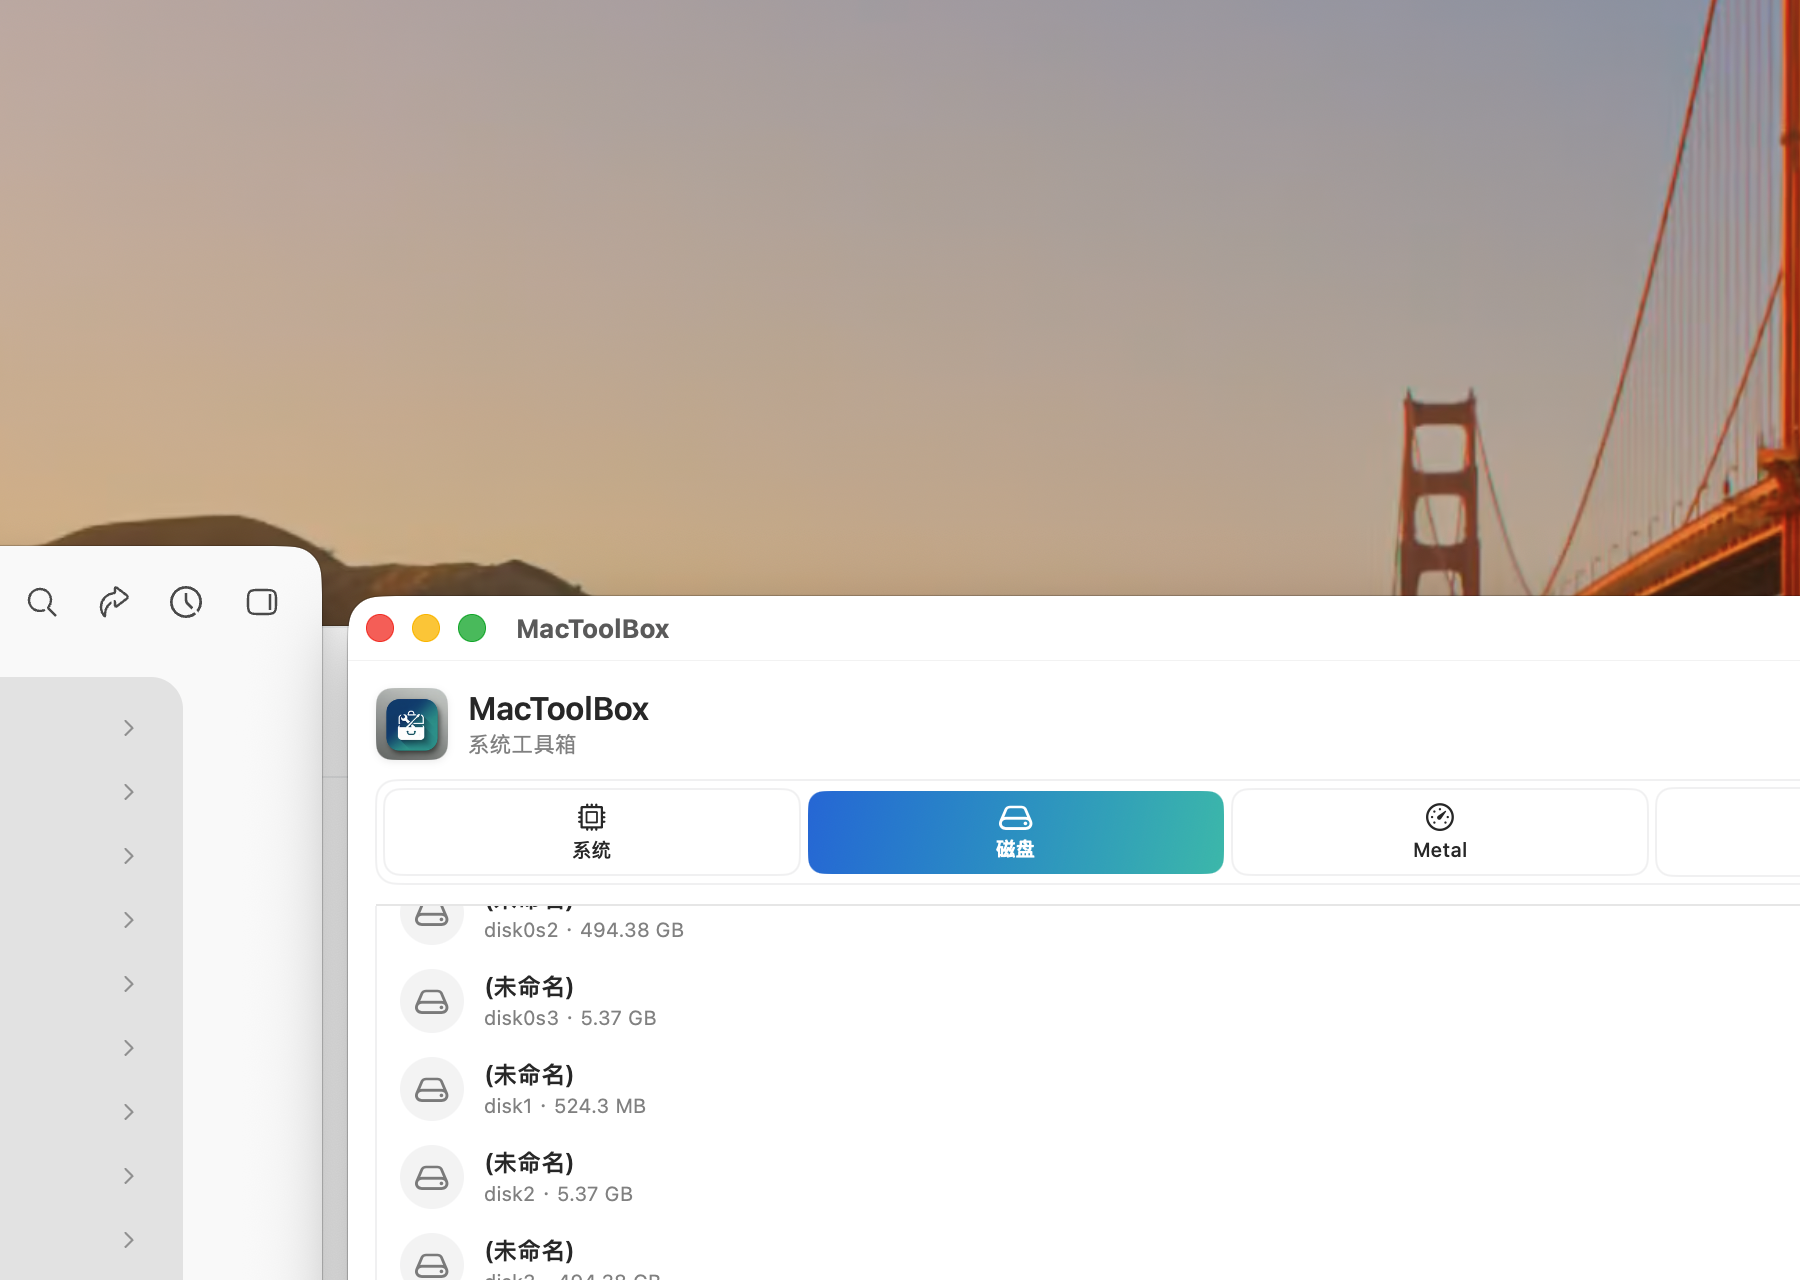
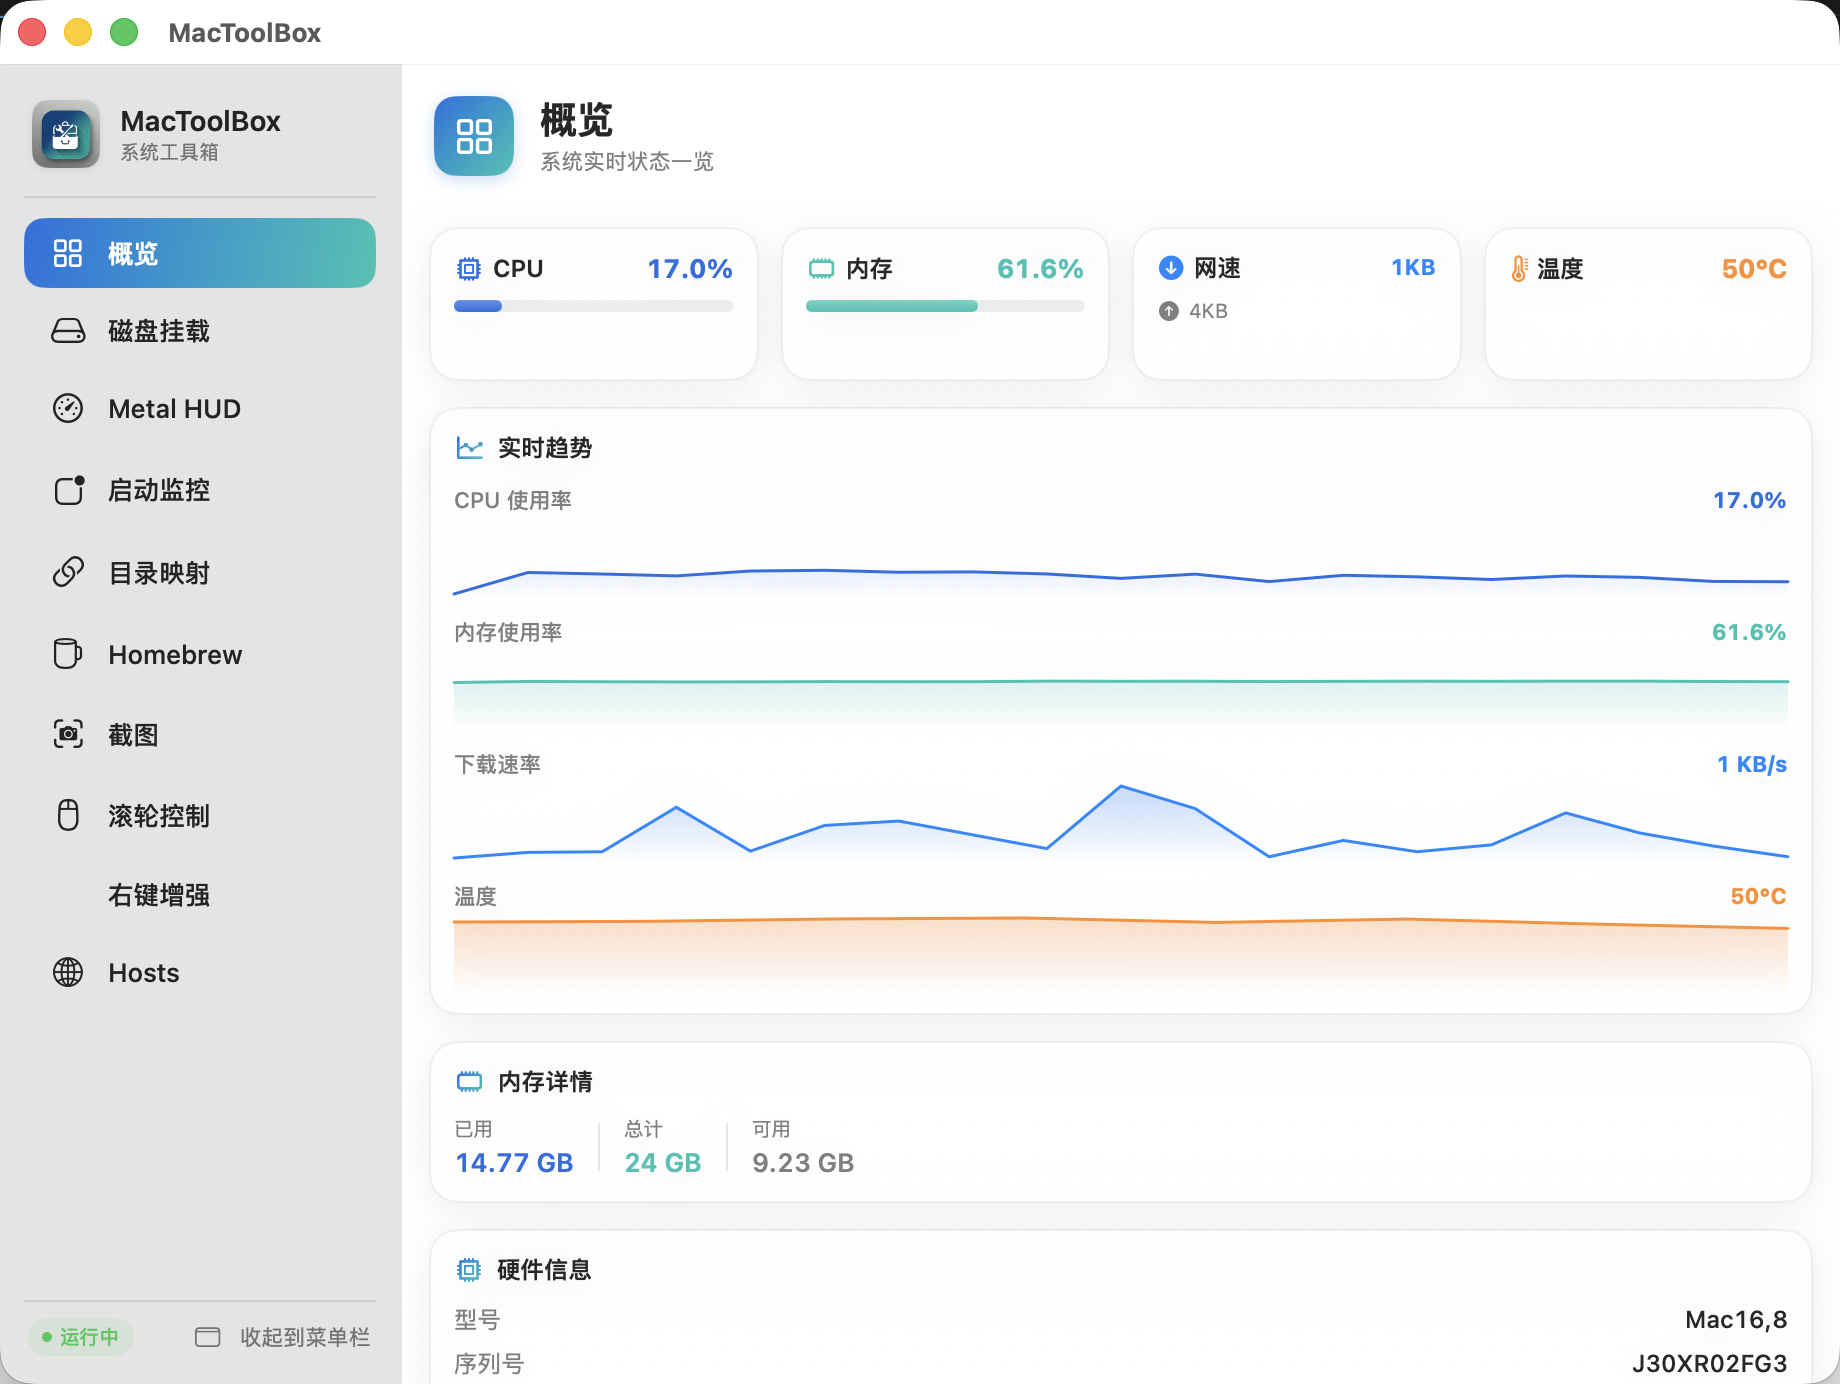
docs(readme): 同步截图就地标注/Hosts 功能/贴图原比例；更新主窗口截图
- 功能表新增 Hosts 行、截图行补就地标注、右键增强图标修正
- 核心能力段与选区工具条段更新；目录树补充 Annotation/Hosts 子模块
- 替换主窗口截图（美化版）

diff --git a/README.md b/README.md
@@ -20,13 +20,14 @@
 | `brew` | Homebrew | `mug` | 开 | 已装/可清理/过期包查询 |
 | `cleanup` | 垃圾清理 | `trash.fill` | 关 | 按 **系统 / 应用 / 上网** 垃圾分组，默认仅选安全项，分批清理（`actor` 隔离） |
 | `launchAgent` | 启动项 | `power` | 关 | LaunchAgent/Daemon plist 解析与管理 |
-| `screenshot` | 截图 | `camera.viewfinder` | 开 | 全屏 / 窗口 / **区域拖选** 截图，存文件 / 剪贴板，或**贴图**悬浮窗（拖动 / 缩放 / 关闭） |
+| `screenshot` | 截图 | `camera.viewfinder` | 开 | 全屏 / 窗口 / **区域拖选** 截图，存文件 / 剪贴板，或**贴图**悬浮窗（拖动 / 缩放 / 关闭）；选区后工具条直接集成**就地标注**（矩形 / 圆形 / 箭头 / 画笔 / 文字 / 马赛克） |
 | `scrollControl` | 滚轮控制 | `computermouse` | 关 | 鼠标滚轮反向 + 平滑滚动，触控板豁免 |
-| `rightClick` | 右键增强 | `rectangle.on.folder` | 关 | Finder 右键菜单（10 项）：新建文件 / 从模板新建 / 复制路径 / 复制文件名 / 用 App 打开 / 在终端打开 / 在 Finder 显示 / 直接删除 / 隐藏显示 / 常用目录。**免费路线：macOS Quick Action (.workflow)** + `mactoolbox://` URL 协议，零证书稳定出现在 Finder 右键「服务」子菜单 |
+| `rightClick` | 右键增强 | `hand.tap` | 关 | Finder 右键菜单（10 项）：新建文件 / 从模板新建 / 复制路径 / 复制文件名 / 用 App 打开 / 在终端打开 / 在 Finder 显示 / 直接删除 / 隐藏显示 / 常用目录。**免费路线：macOS Quick Action (.workflow)** + `mactoolbox://` URL 协议，零证书稳定出现在 Finder 右键「服务」子菜单 |
+| `hosts` | Hosts | `globe` | 开 | SwitchHosts 类 hosts 管理：多方案增删改、一键切换 / 刷新系统 DNS、系统 hosts 实时预览，列表整行可点 |
 
 核心能力：
 
-- **截图**：基于 `CGDisplayCreateImage` 逐屏合成 + 无边框叠层遮罩，区域拖选 / 窗口吸附 / 全屏三模式；选区后浮动工具条（保存 / 复制 / 贴图 / 取消），支持**贴图悬浮窗**（拖动 / 滚轮缩放 / `Cmd+W`·`X`·`Esc` 关闭）。
+- **截图**：基于 `CGDisplayCreateImage` 逐屏合成 + 无边框叠层遮罩，区域拖选 / 窗口吸附 / 全屏三模式；选区后**工具条直接集成标注工具，就地绘制**（矩形 / 圆形 / 箭头 / 画笔 / 文字 / 马赛克 + 6 色 + 撤销），再保存 / 复制 / 贴图，无需弹窗；支持**贴图悬浮窗**（拖动 / 滚轮缩放 / `Cmd+W`·`X`·`Esc` 关闭）。
 - **滚轮控制**：基于 `CGEventTap` 的全局滚轮拦截引擎，支持反向 + 平滑滚动 + 触控板豁免。
 - **右键增强**：Finder Sync 扩展注入右键菜单（10 项动作），瘦扩展模式：扩展只渲染菜单、操作在主进程执行；配置经 **App Group 共享文件**下发（Finder 重启也稳定），并保留分布式通知实时刷新。免费路线：`Info.plist` NSServices「服务」子菜单同享全部动作（免签名）。
 - **全局快捷键**：基于 Carbon `RegisterEventHotKey`，零依赖、免辅助功能权限。支持区域截图 / 全屏截图 / 窗口截图 / 切换主窗口 / 打开概览，绑定可在「设置」中录制。
@@ -79,7 +80,9 @@ MacToolBox/
 │   │   │   ├── Cleanup/        DiskCleaner.swift(actor, CleanupTarget 路径地图) + CleanupService.swift + CleanupView.swift
 │   │   │   ├── LaunchAgent/    LaunchAgentService.swift + LaunchAgentView.swift
 │   │   │   ├── Screenshot/     ScreenshotCore.swift + CaptureOverlay.swift + PinManager.swift + WindowDetector.swift + ScreenshotView.swift
+│   │   │   │   └── Annotation/ AnnotationCanvas.swift + AnnotationModels.swift + AnnotationToolbar.swift + AnnotationEditor.swift（就地标注）
 │   │   │   ├── ScrollControl/  ScrollControlService.swift + ScrollEvent.swift + ScrollPoster.swift + ScrollControlView.swift
+│   │   │   ├── Hosts/          HostsModels.swift + HostsService.swift + HostsView.swift + HostsTextView.swift（SwitchHosts 类）
 │   │   │   └── RightClick/     RightClickService.swift  + RightClickModels.swift + RightClickActionHandlers.swift + RightClickView.swift
 │   │   ├── Services/                     # 跨功能的共享服务
 │   │   │   └── SystemInfoService.swift   # mach + sysctl + ioreg + SMC 温度（@Published 快照：平均 + 最热核心，后台读取）
@@ -261,8 +264,8 @@ launchctl unsetenv METAL_HUD_ENABLED     # 关闭
 - **全屏**：直接截取光标所在屏并保存到默认位置（或 `pin` 直接贴图）。
 - **区域拖选**：逐屏 `CGDisplayCreateImage` 合成快照，铺无边框 `OverlayWindow`（borderless + `.screenSaver` 级别）整屏暗化遮罩；`SelectionView` 拖拽选区，进入即整屏蒙版提示，悬停窗口挖洞高亮（窗口吸附）。
 - **窗口**：`CGWindowListCopyWindowInfo` 枚举窗口，`WindowDetector` 吸附，单击即捕。
-- **选区工具条**：选中后浮动工具条（保存 / 复制 / 贴图 / 取消），双击 / 回车 = 保存，Esc / 右键取消；`CaptureSession` 加 `isCapturing` 守卫防重复触发快捷键。
-- **贴图**：`PinManager` 把选区裁图贴为浮动窗，支持拖动（按绝对位置差，四向正确）、滚轮缩放、`Cmd+W` / `X` / `Esc` 关闭、多张叠加。
+- **选区工具条**：选中后浮动工具条直接集成标注工具（矩形 / 圆形 / 箭头 / 画笔 / 文字 / 马赛克）+ 6 色 + 撤销，在选区上**就地绘制**；右侧操作按钮：保存 / 复制 / 贴图 / 取消。双击 / 回车 = 保存，`Cmd+Z` = 撤销标注，Esc / 右键取消；`CaptureSession` 加 `isCapturing` 守卫防重复触发快捷键。
+- **贴图**：`PinManager` 把选区裁图贴为浮动窗，按**屏幕原始比例**展示（Retina 下按 `backingScaleFactor` 换算逻辑点，不再 2× 放大），支持拖动（按绝对位置差，四向正确）、滚轮缩放、`Cmd+W` / `X` / `Esc` 关闭、多张叠加。
 - 纯函数 `ScreenshotMath.clamp` / `ScreenshotFlow.buildFilename` / `savePNG` 可独立单测。
 
 ### 全局快捷键
